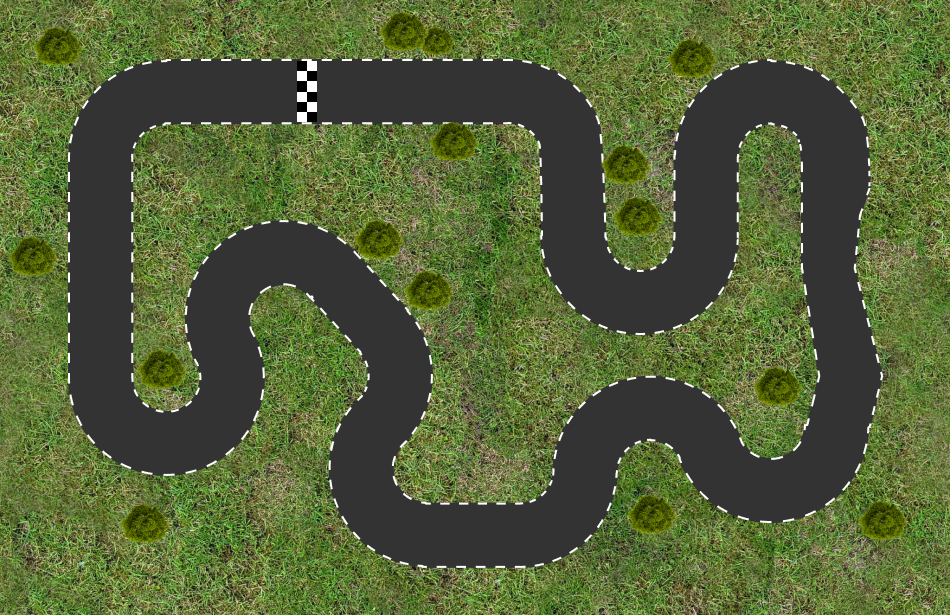
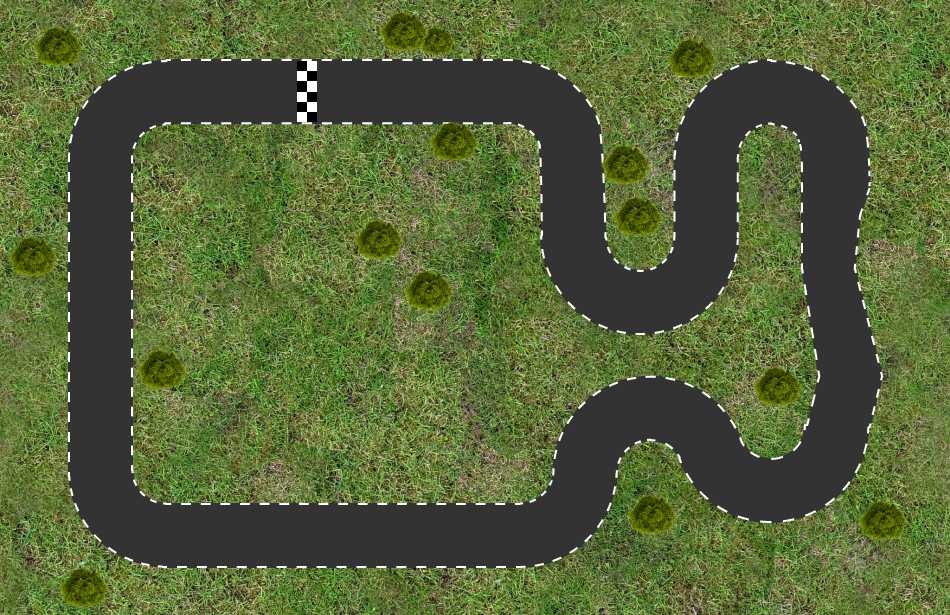
track1 collision done

Changed region(s): [[0.0611, 0.3398, 0.4579, 0.9268], [0.0611, 0.9268, 0.1221, 0.9886]]

diff --git a/script.js b/script.js
@@ -12,7 +12,7 @@ class Block {
 
   draw() {
     let squareColor = color(100, 50, 100);
-    squareColor.setAlpha(0);
+    squareColor.setAlpha(255);
     noStroke();
     fill(squareColor)
     rect(this.x, this.y, this.w, this.h,)
@@ -38,19 +38,19 @@ class Player {
   draw() {    
     fill(this.color);
     this.isColliding();
-    rect(this.x, this.y, 15, 15);    
+    rect(this.x, this.y, 10, 10);    
   }
 
   isColliding() {
     this.vx = 1.5;
     this.vy = 1.5;
     blocks.forEach(block=>{   
-       if (this.x < block.x + block.w && this.x + 15 > block.x) {
-          if (this.y < block.y + block.h && this.y + 15 > block.y) {
+       if (this.x < block.x + block.w && this.x + 10 > block.x) {
+          if (this.y < block.y + block.h && this.y + 10 > block.y) {
             //jouw bots code hier
             //fill("red");
-            this.vx = 0.5;            
-            this.vy = 0.5;     
+            this.vx = 0.25;
+            this.vy = 0.25;
           }
        }        
     });     
@@ -86,14 +86,26 @@ function setup() {
   block3 = new Block(460, 35, 10, 260, "transparent");
   block4 = new Block(320, 295, 140, 10, "transparent");
   block5 = new Block(35, 325, 280, 10, "transparent");
+  block6 = new Block(75, 72, 205, 212, "transparent");
+  block7 = new Block(317.5, 35, 40, 110, "transparent");
+  block8 = new Block(390, 70, 30, 185, "transparent");
+  block9 = new Block(280, 190, 110, 25, "transparent");
+  block10 = new Block(328, 250, 30, 66, "transparent");
 
   blocks.push(block1);
-  blocks.push(block2)
-  blocks.push(block3)
-  blocks.push(block4)
-  blocks.push(block5)
+  blocks.push(block2);
+  blocks.push(block3);
+  blocks.push(block4);
+  blocks.push(block5);
+  blocks.push(block6);
+  blocks.push(block7);
+  blocks.push(block8);
+  blocks.push(block9);
+  blocks.push(block10);
   
-  bg = loadImage('Images/Bg1FrFr.png')
+  bg = loadImage('Images/track1.png')
+
+  
 }
 
 function draw() {
